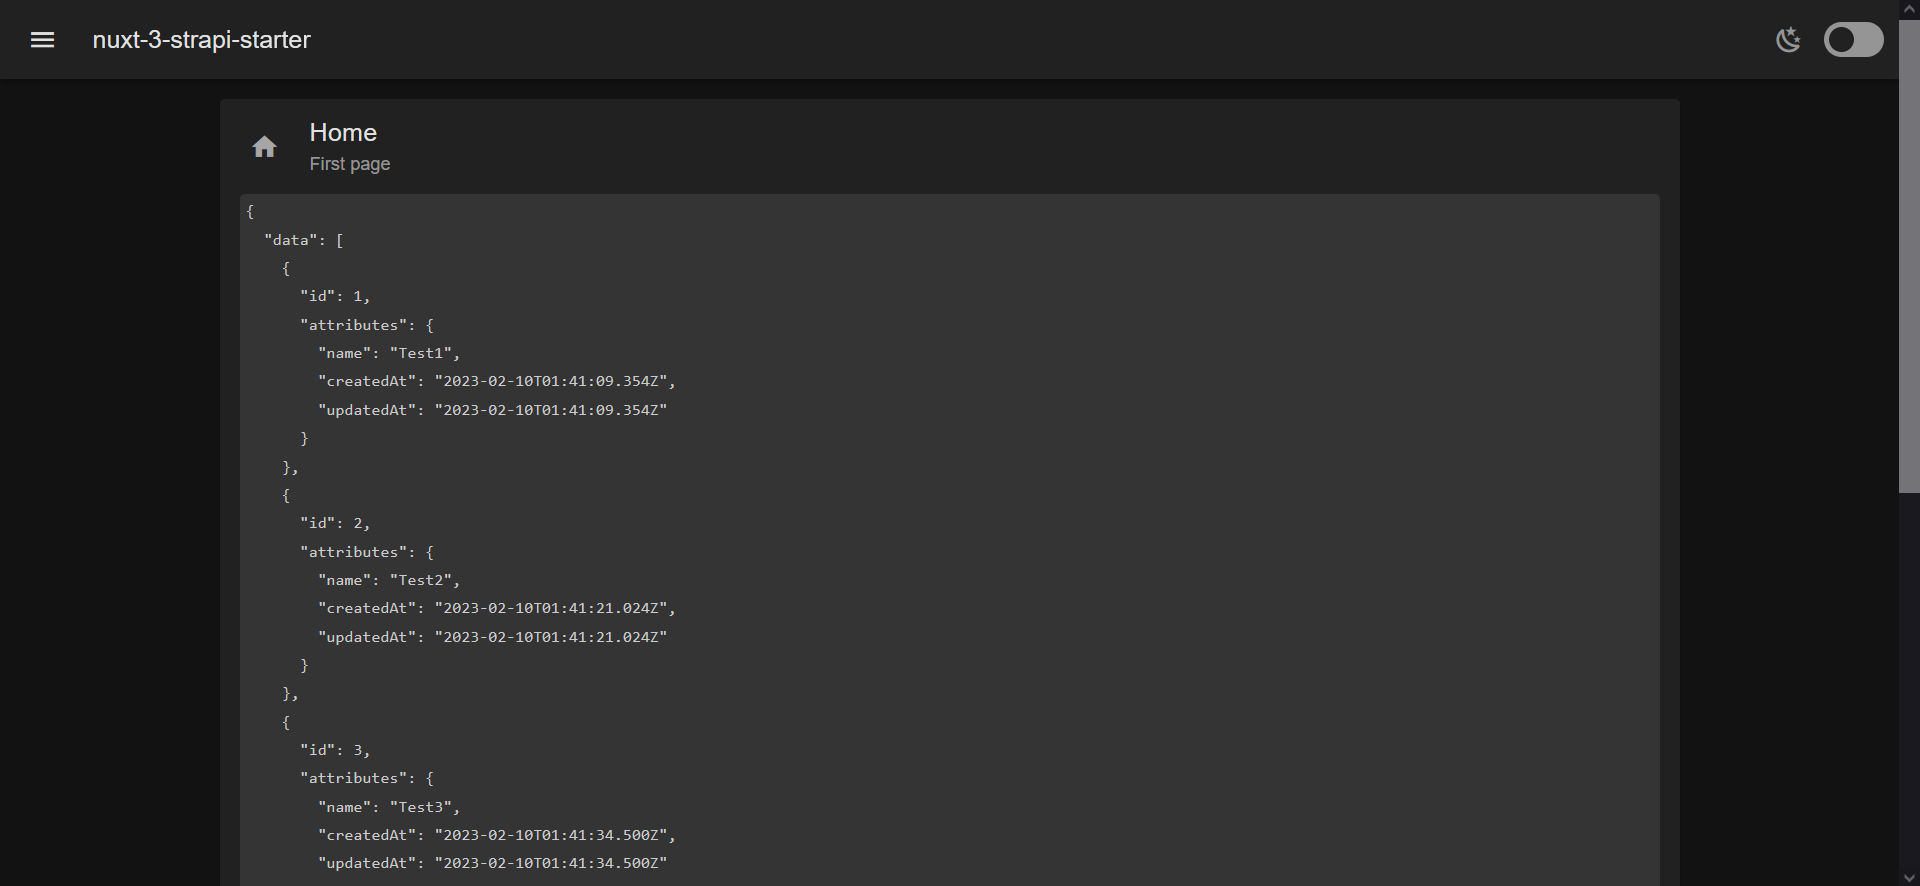
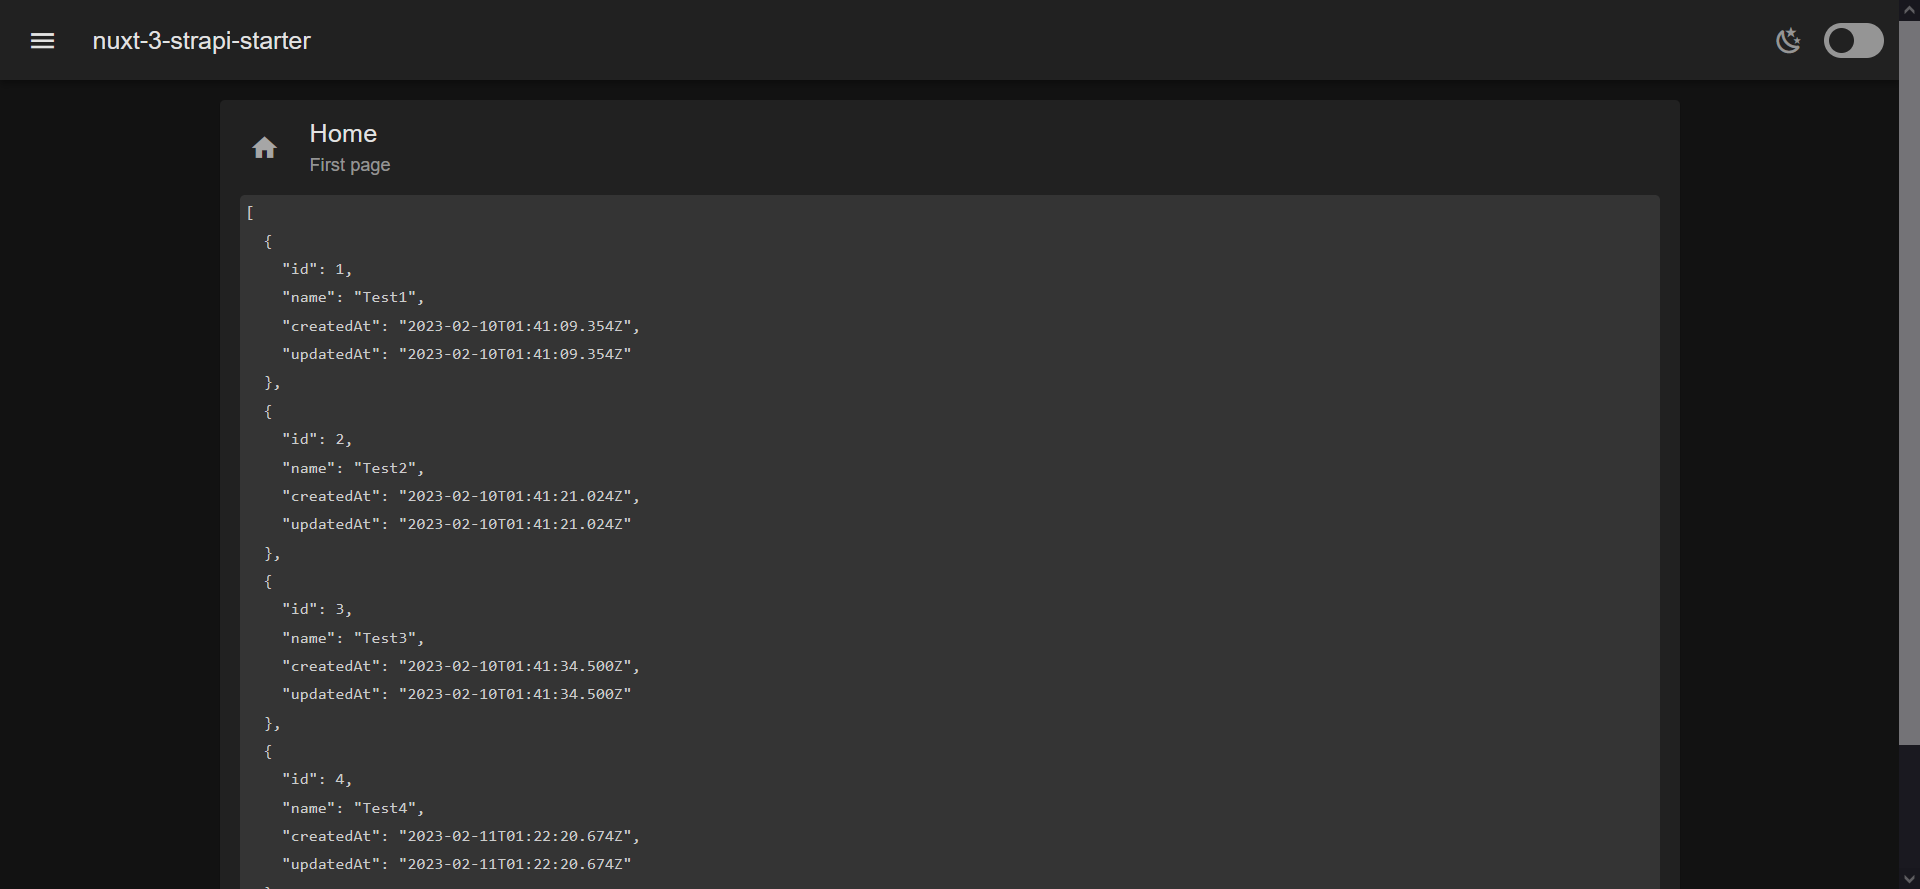
Base version with layout and pages functionality

diff --git a/frontend/pages/index.vue b/frontend/pages/index.vue
@@ -16,6 +16,8 @@
 
 <script setup>
 const { find } = useStrapi();
-const response = await find("tests");
-console.log(response);
+const { data } = await find("tests");
+const response = computed(() =>
+  data.map((r) => ({ id: r.id, ...r.attributes }))
+);
 </script>
